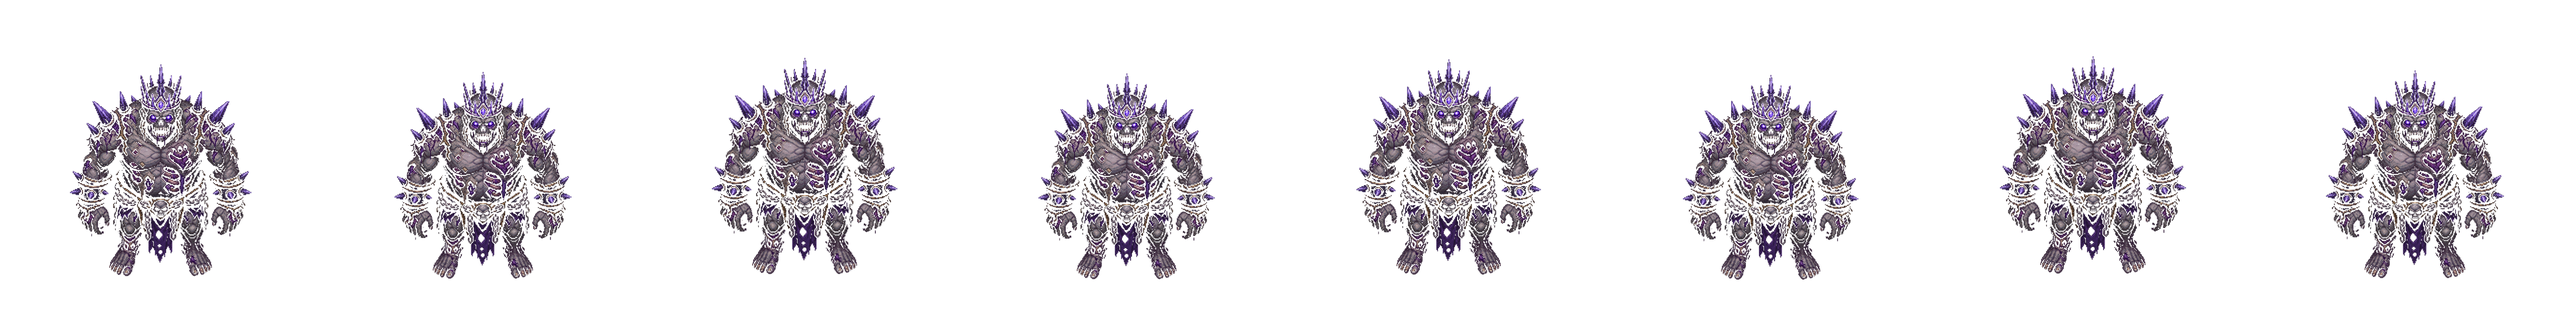
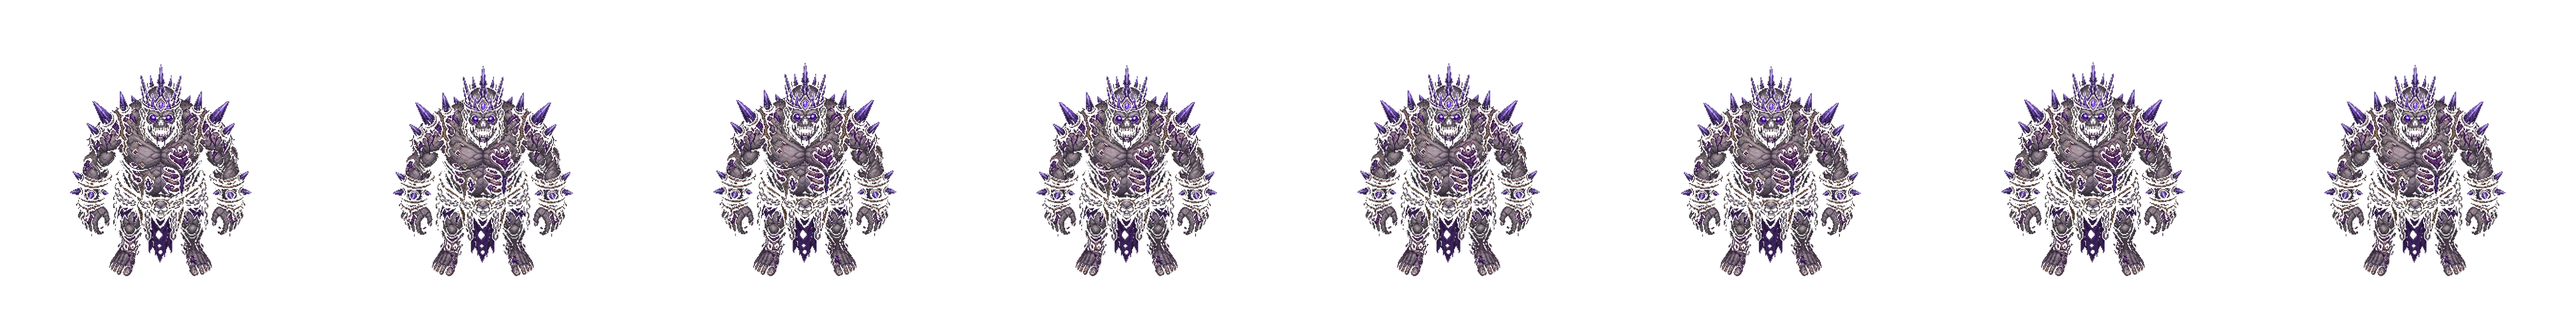
Ground zombie sprites with stable feet, softer walk animation, and larger draw size.

diff --git a/public/game.js b/public/game.js
@@ -159,7 +159,7 @@ const WAVE_EVENTS = [
 
 
 
-const SPRITE_VERSION = 25;
+const SPRITE_VERSION = 26;
 
 function loadSpriteSheet(relativePath, frameCount, frameWidth, frameHeight, meta = {}) {
   const sheet = { img: new Image(), frameCount, frameWidth, frameHeight, ready: false, ...meta };
@@ -292,22 +292,22 @@ const ZOMBIE_VARIANT_META = {
   normal: {
     idle: { path: "images/zombies/zombie-normal-idle-sheet.png", frameCount: 8, frameWidth: 640, frameHeight: 640 },
     move: { path: "images/zombies/zombie-normal-move-sheet.png", frameCount: 8, frameWidth: 640, frameHeight: 640 },
-    sizeMult: 0.92
+    sizeMult: 1.15
   },
   tank: {
     idle: { path: "images/zombies/zombie-tank-idle-sheet.png", frameCount: 8, frameWidth: 640, frameHeight: 640 },
     move: { path: "images/zombies/zombie-tank-move-sheet.png", frameCount: 8, frameWidth: 640, frameHeight: 640 },
-    sizeMult: 0.98
+    sizeMult: 1.22
   },
   boss: {
     idle: { path: "images/zombies/zombie-boss-idle-sheet.png", frameCount: 8, frameWidth: 640, frameHeight: 640 },
     move: { path: "images/zombies/zombie-boss-move-sheet.png", frameCount: 8, frameWidth: 640, frameHeight: 640 },
-    sizeMult: 1.05
+    sizeMult: 1.28
   },
   golden: {
     idle: { path: "images/zombies/zombie-golden-idle-sheet.png", frameCount: 8, frameWidth: 640, frameHeight: 640 },
     move: { path: "images/zombies/zombie-golden-move-sheet.png", frameCount: 8, frameWidth: 640, frameHeight: 640 },
-    sizeMult: 0.9
+    sizeMult: 1.12
   }
 };
 
@@ -353,7 +353,7 @@ function usesZombieVariantArt(z) {
 function getZombieDrawSheet(z) {
   const set = getZombieVariantSet(z);
   if (usesZombieVariantArt(z)) {
-    return (z.animTick || 0) > 0 ? set.move : set.idle;
+    return set.move;
   }
   return (z.animTick || 0) > 0 ? zombieSprites.move : zombieSprites.idle;
 }
@@ -372,9 +372,10 @@ function getZombieDrawMotion(z) {
 
   const set = getZombieVariantSet(z);
   const facingLeft = Math.cos(z.facingAngle || 0) < 0;
+  const moving = (z.animTick || 0) > 0;
 
   return {
-    frame: z.animFrame || 0,
+    frame: moving ? z.animFrame || 0 : 0,
     cyOffset: 0,
     angle: 0,
     squashX: facingLeft ? -1 : 1,
@@ -7202,10 +7203,13 @@ function update() {
       }
       z.facingAngle = Math.atan2(dy, dx);
       z.animTick = (z.animTick || 0) + 1;
-      if (z.animTick % 6 === 0) {
+      if (z.animTick % 8 === 0) {
         const animFrames = usesZombieVariantArt(z) ? ZOMBIE_VARIANT_FRAME_COUNT : zombieSprites.move.frameCount;
         z.animFrame = ((z.animFrame || 0) + 1) % animFrames;
       }
+    } else {
+      z.animTick = 0;
+      z.animFrame = 0;
     }
   }
 
@@ -7274,15 +7278,18 @@ function drawHealthBar(cx, top, hp, maxHp, options = {}) {
   ctx.restore();
 }
 
-function drawEntityShadow(cx, cy, size) {
+function drawEntityShadow(cx, cy, size, anchor = "center") {
+  const shadowY = anchor === "feet" ? cy + size * 0.03 : cy + size * 0.14;
+  const shadowW = size * (anchor === "feet" ? 0.42 : 0.36);
+  const shadowH = size * (anchor === "feet" ? 0.15 : 0.13);
   ctx.fillStyle = "rgba(0,0,0,0.42)";
   ctx.beginPath();
-  ctx.ellipse(cx, cy + size * 0.14, size * 0.36, size * 0.13, 0, 0, Math.PI * 2);
+  ctx.ellipse(cx, shadowY, shadowW, shadowH, 0, 0, Math.PI * 2);
   ctx.fill();
 }
 
 function drawSpriteWithGlow(sheet, frame, cx, cy, size, angle, glowColor, glow = {}) {
-  drawEntityShadow(cx, cy, size);
+  drawEntityShadow(cx, cy, size, glow.anchor);
   if (!sheet.ready || sheet.frameWidth <= 0) return false;
 
   const glowBlur = glow.blur ?? 14;
@@ -7417,7 +7424,7 @@ function draw() {
       ctx.restore();
     }
 
-    const footY = z.y + z.size * 0.94;
+    const footY = z.y + z.size;
     const drawX = cx;
     const drawY = variantArt ? footY : cy + motion.cyOffset;
     const glowOptions = {

diff --git a/public/index.html b/public/index.html
@@ -5284,7 +5284,7 @@ TikTok @hulklives
 </div>
 
 <script src="game-pro.js?v=3"></script>
-<script src="game.js?v=204"></script>
+<script src="game.js?v=205"></script>
 <script src="chat.js?v=2"></script>
 <script src="daily-challenges.js?v=2"></script>
 <script src="friends.js?v=5"></script>
